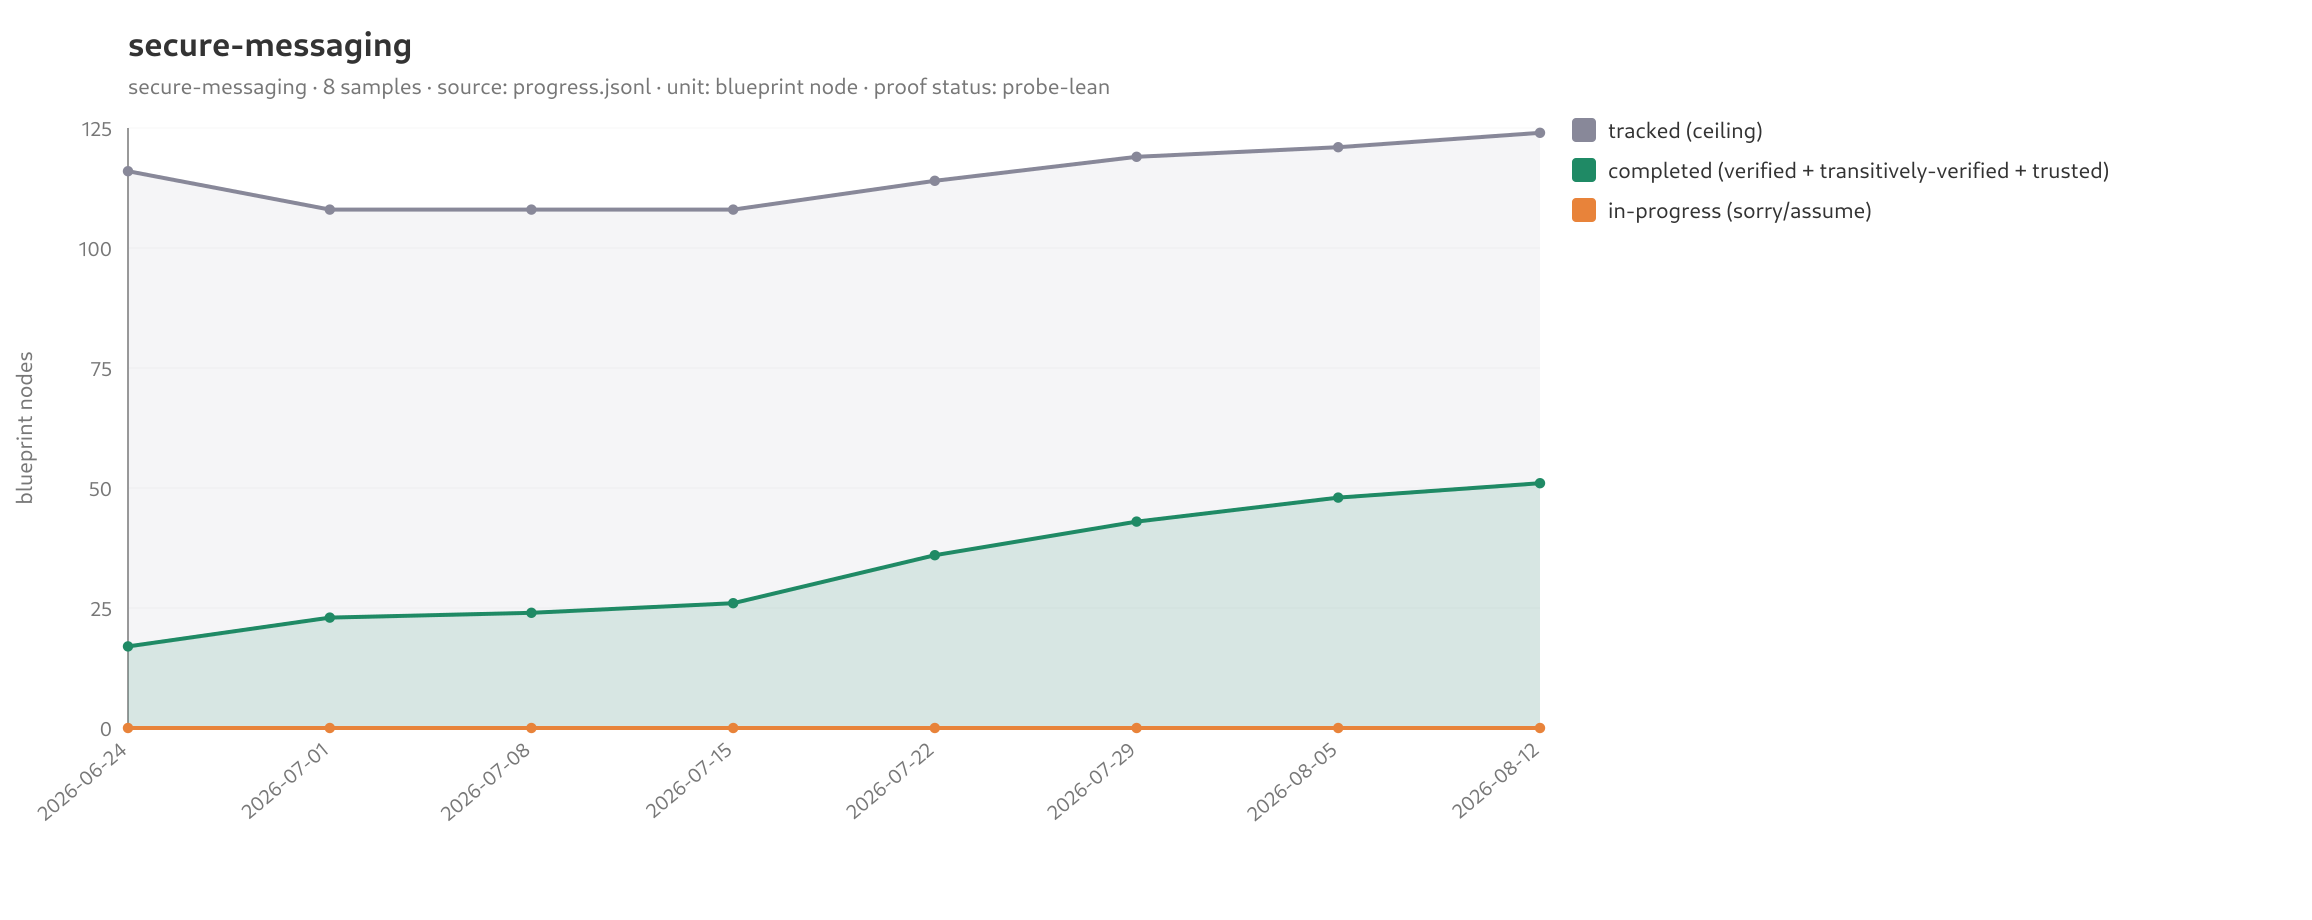
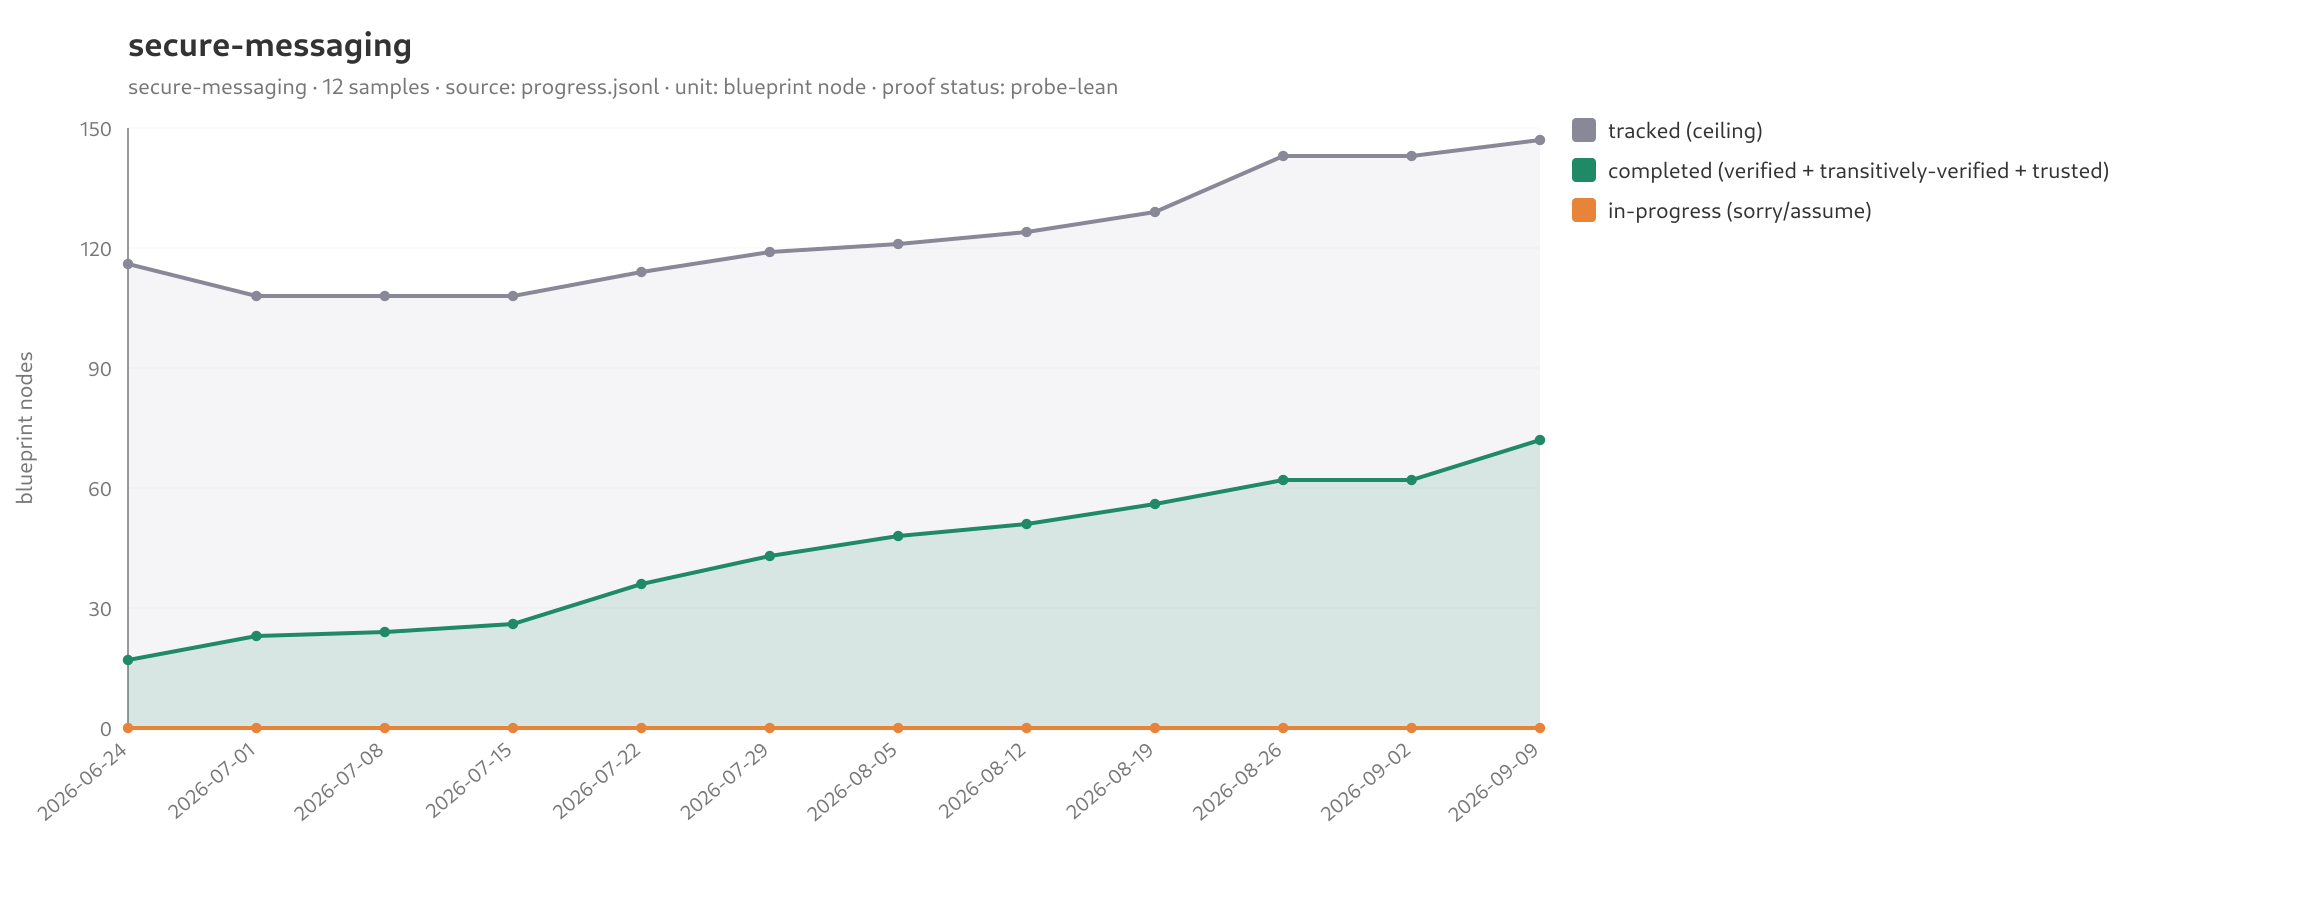
data(secure-messaging): weekly progress samples 2026-08-19 … 2026-09-09
Four new `ok` samples off `main` (probe-leanblueprint 0.3.0), regenerated
burn-up, and a runbook refresh: last sample, per-commit timing, and the
`--branch origin/main` pin the default `origin/HEAD` ref does not give.

2026-09-02 repeats 2026-08-26 on every metric; that week's commits touch
Lean sources only, no `docs/` blueprint nodes.

Closes #61

diff --git a/tools/verification-progress-history/data/secure-messaging/update-progress.md b/tools/verification-progress-history/data/secure-messaging/update-progress.md
@@ -6,12 +6,14 @@ Run everything from the tool directory:
 cd tools/verification-progress-history
 ```
 
-Data lives in `data/secure-messaging/`. Last recorded sample: **2026-08-12**
-(`progress.jsonl`, 8 rows). Sampling re-runs the real verifier per commit, so it
-is slow (~13–18 min/commit here); plotting is free.
+Data lives in `data/secure-messaging/`. Last recorded sample: **2026-09-09**
+(`progress.jsonl`, 12 rows). Sampling re-runs the real verifier per commit, so it
+is slow (~11–18 min/commit here); plotting is free.
 
-The committed series is **weekly** (Wednesday-anchored: 2026-06-24 … 2026-08-12),
-so extend it with `--cadence weekly`.
+The committed series is **weekly** (Wednesday-anchored: 2026-06-24 … 2026-09-09)
+and sampled off `main`, so extend it with `--cadence weekly --branch origin/main`
+(the default ref is the work-clone's `origin/HEAD`, which follows whatever branch
+the source checkout was on).
 
 ## Prerequisites (on PATH, pinned for the whole run)
 
@@ -27,9 +29,9 @@ week with no new commit adds nothing:
 
 ```bash
 python3 progress_history.py <repo> \
-  --pipeline leanblueprint --cadence weekly \
+  --pipeline leanblueprint --cadence weekly --branch origin/main \
   --verso-render-cmd scripts/render-docs-site.sh \
-  --since 2026-08-12 --resume \
+  --since 2026-09-09 --resume \
   --work-clone /tmp/vph-secure-messaging \
   --dep-cache-dir /tmp/vph-depcache \
   --sample-timeout 3600
